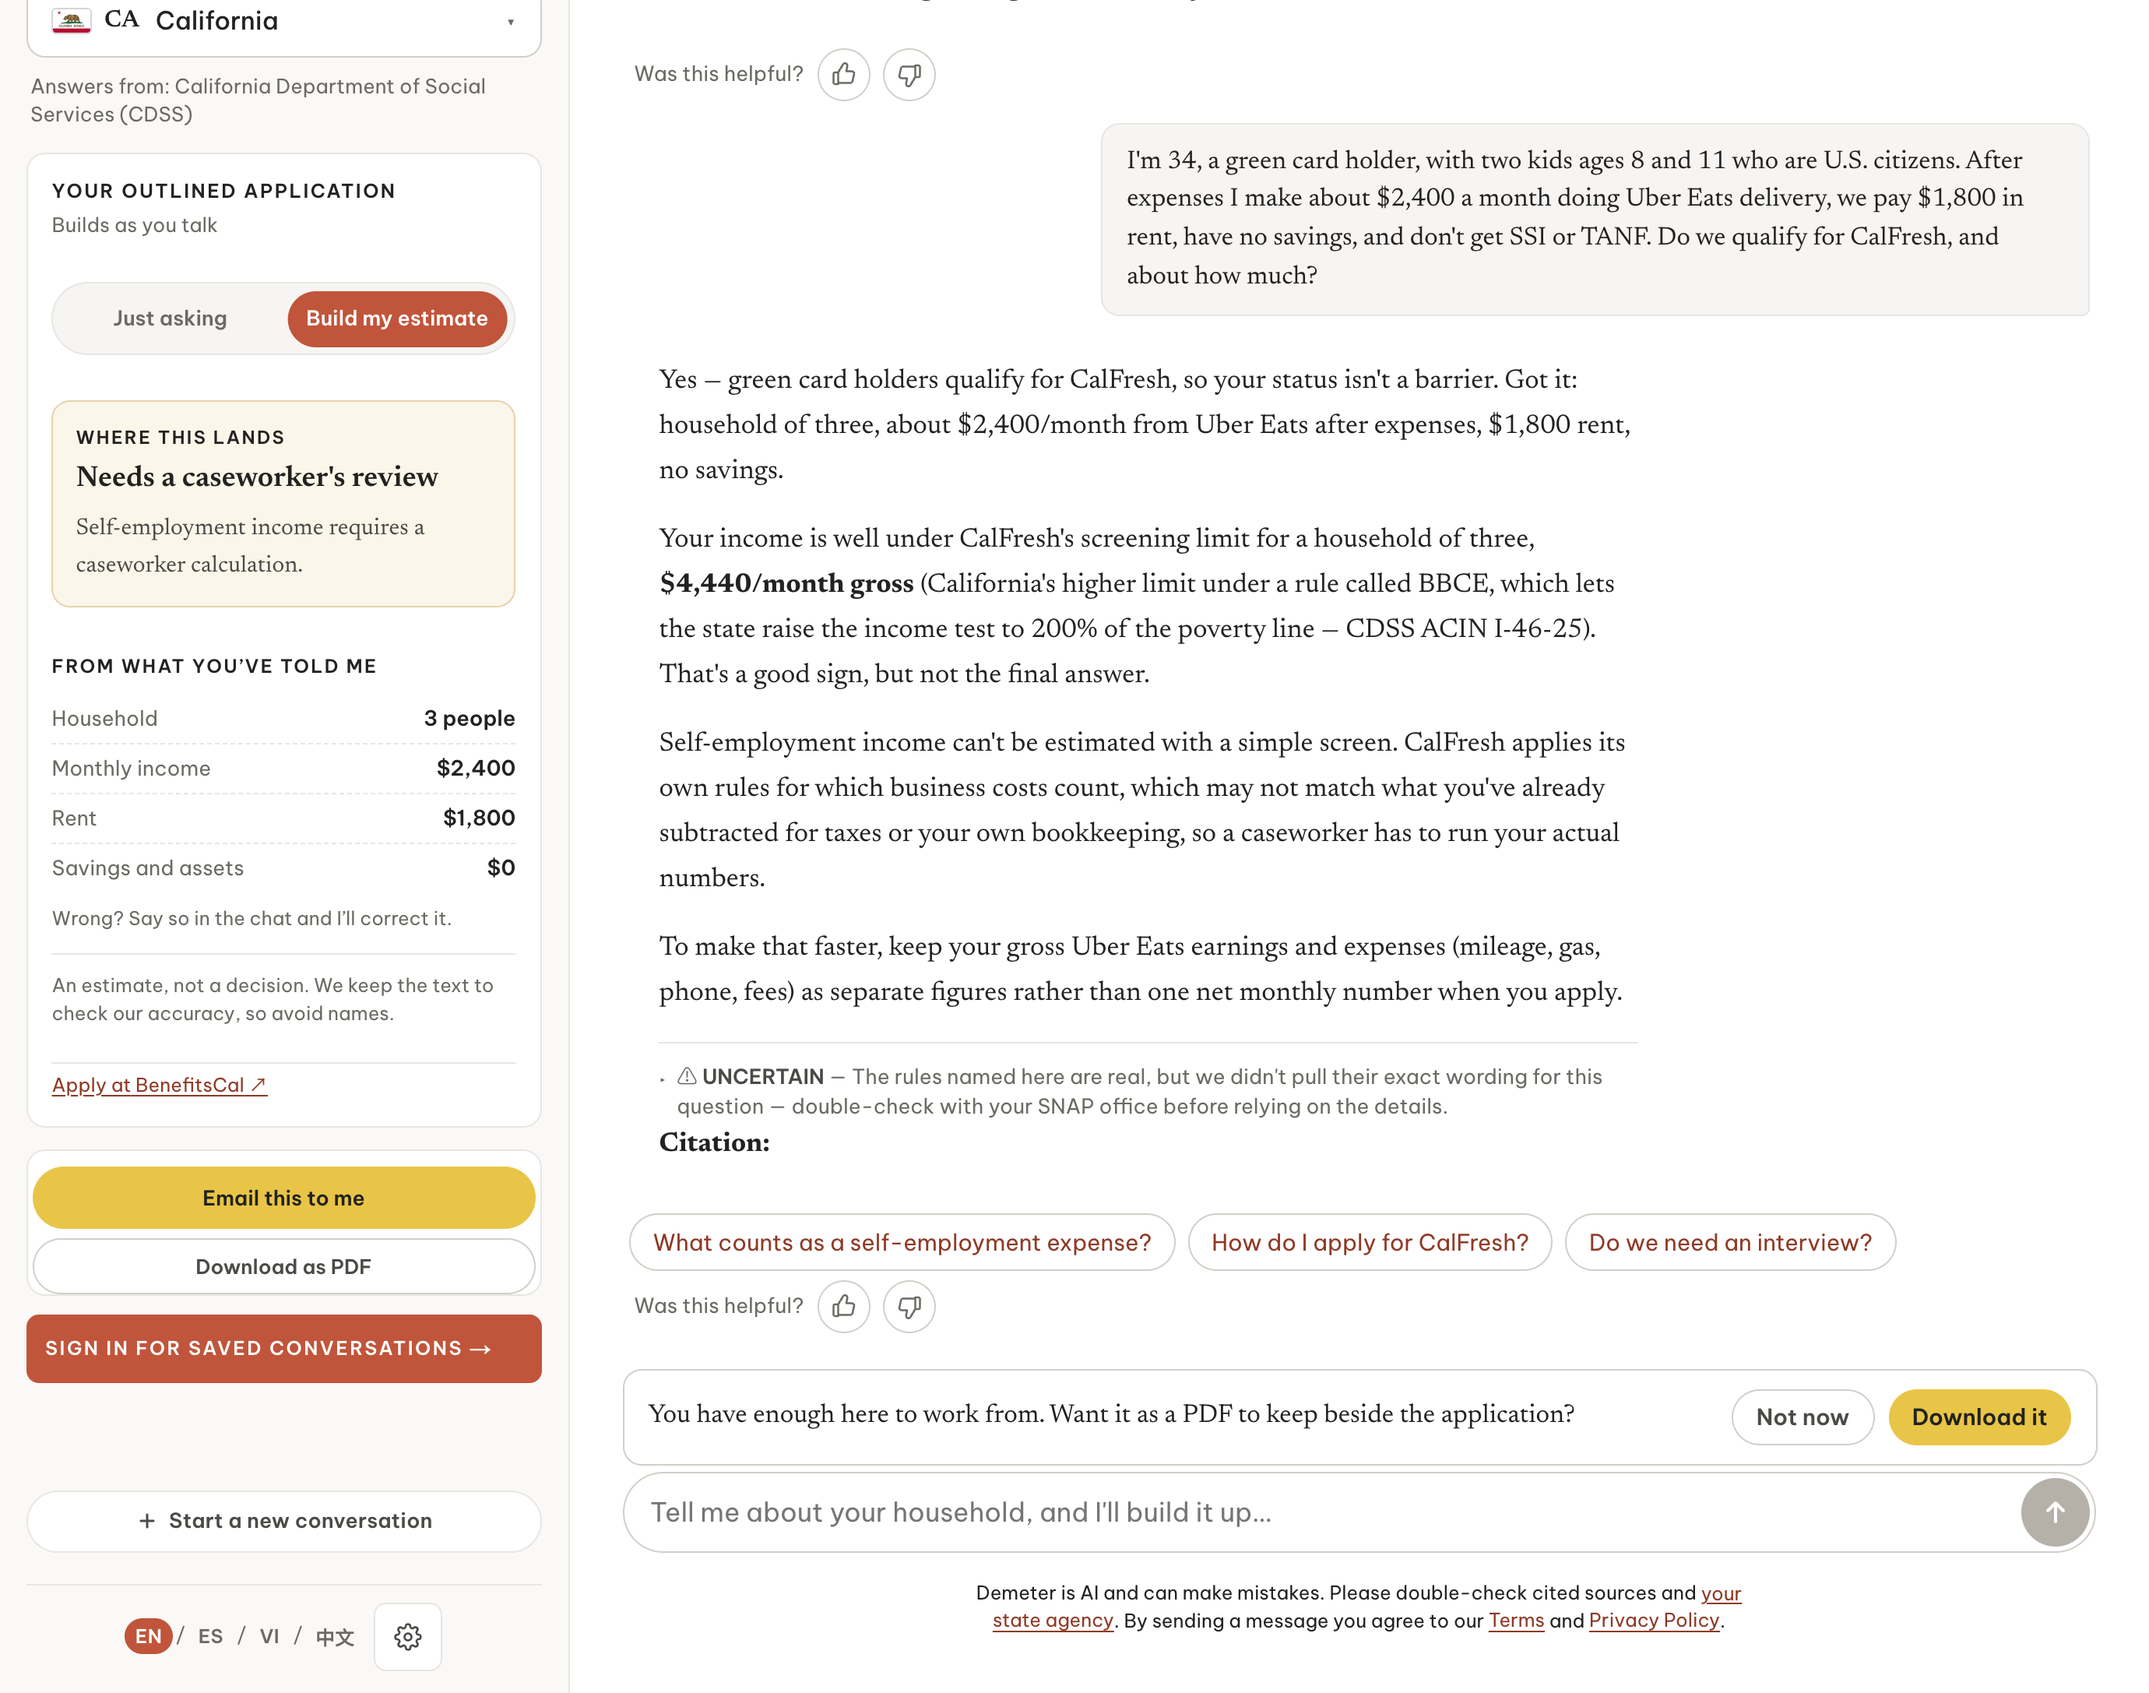
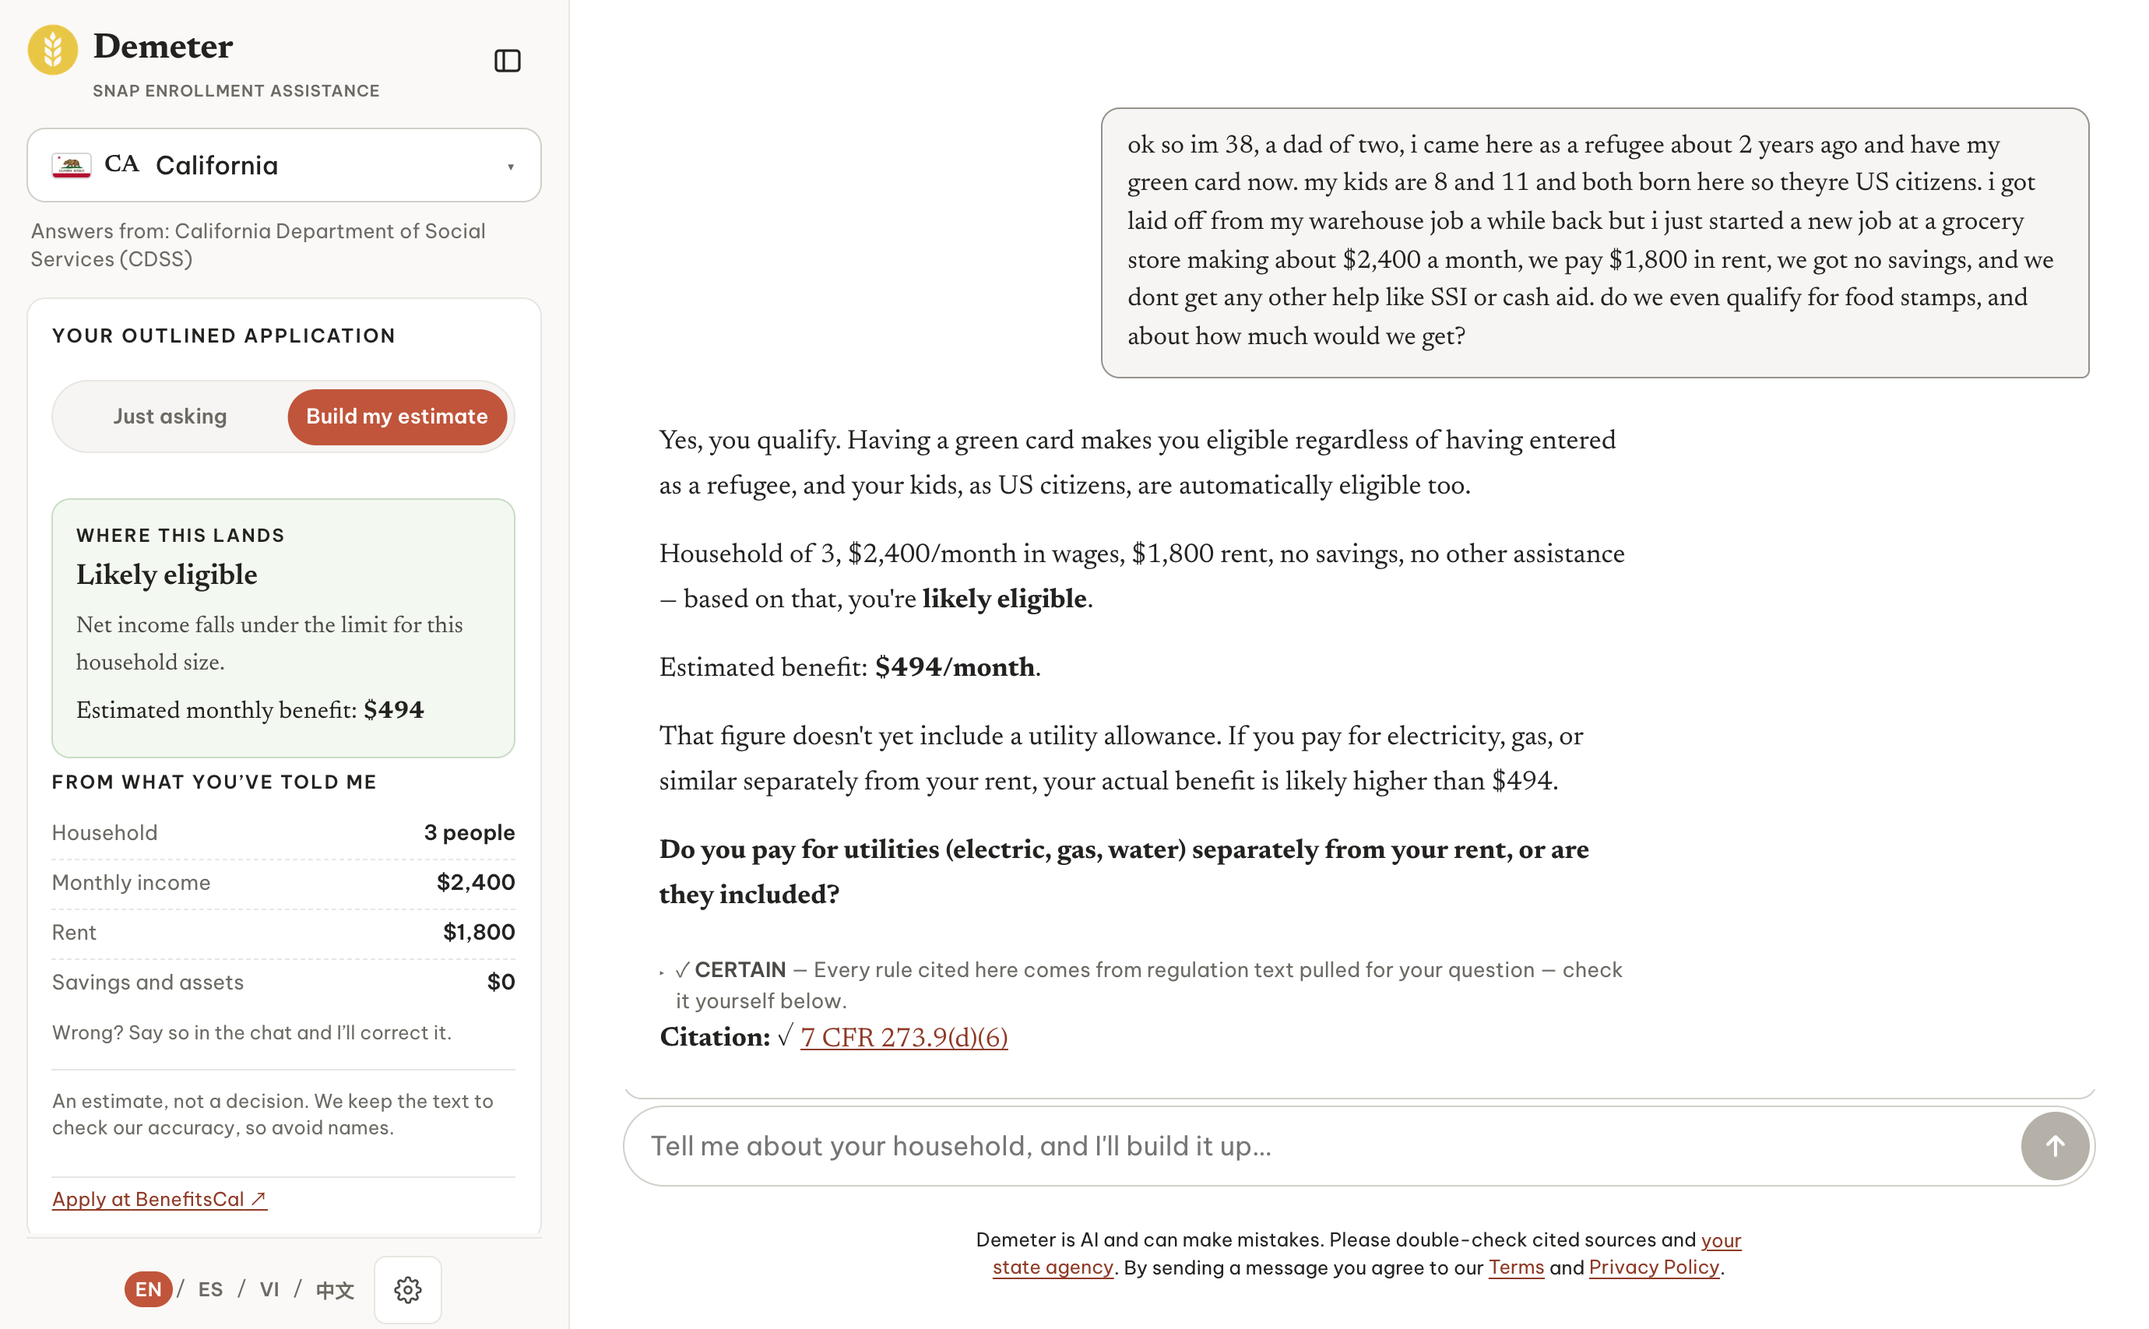
feat(cra-artifact): page-3 = honest wage capture, numbered legend of intent
Rebuild the CA page-3 evidence figure around the live "Likely eligible + $494"
wage scenario and redesign how it is annotated.

Screenshot (assembled from real elements of the same live conversation, at one
pixel scale): the outline lands on WHERE THIS LANDS = "Likely eligible" with an
Estimated monthly benefit of $494 and the captured facts; the chat shows the
messy refugee/new-job question answered plainly with a CERTAIN badge + machine-
checked citation (7 CFR 273.9(d)(6)); the chat input bar and the AI-disclosure
are kept; the four languages sit at the bottom. Redundant "Based on household"
and "Builds as you talk" lines are trimmed to save height.

Annotation: replaced the overlapping leader-line callout cards with small
numbered markers on the screenshot (yellow, crisp ring - a blurred drop-shadow
was rasterizing as a gray box in the PDF) plus a two-column legend beneath that
explains the INTENT of each feature rather than captioning what is on screen.

Layout: the built-in-limits / checked rails + try-it QR move above the demo, so
the screenshot sits in the middle with the intent legend below; the demo bleeds
slightly past the text column so it reads larger. FL keeps its plain screenshot
(no markers/legend) - the annotated treatment is CA-only.

diff --git a/tools/cra-artifact/templates/artifact.html b/tools/cra-artifact/templates/artifact.html
@@ -174,19 +174,26 @@
   .disclose { border:1px solid var(--rule-strong); border-radius:2px; background:var(--tint); padding:6px 11px; font-size:8.1pt; line-height:1.38; color:var(--body); margin-top:5px; text-wrap:pretty; }
   .disclose strong { color:var(--ink); }
   /* Page 3 — the platform, as built (annotated real screenshot) */
-  .platform-hero { margin-top:8px; }
-  .chatshot { position:relative; }
-  .chatshot > img { width:100%; height:100%; display:block; border:1px solid var(--rule); border-radius:6px; object-fit:cover; }
-  .chatshot .leaders { position:absolute; inset:0; width:100%; height:100%; pointer-events:none; overflow:visible; }
-  .chatshot .leaders .ld { fill:none; stroke:var(--accent-deep); stroke-width:1.5; stroke-linecap:round; vector-effect:non-scaling-stroke; opacity:.9; }
-  /* Round target dots as HTML (fixed px), so the stretched SVG can't oval them. */
-  .chatshot .cdot { position:absolute; width:8px; height:8px; border-radius:50%; background:var(--accent); border:1.5px solid #fff; box-shadow:0 0 0 .5px var(--accent-deep); transform:translate(-50%,-50%); }
-  .chatshot .co { position:absolute; font-size:7.2pt; line-height:1.28; color:var(--body);
-    background:rgba(252,250,246,.94); border:0.5px solid var(--accent); border-left:2.5px solid var(--accent-deep);
-    border-radius:3px; padding:3px 6px 3.5px; box-shadow:0 1px 3px rgba(35,34,32,.10); }
-  .chatshot .co b { display:block; font-family:'Newsreader',serif; font-weight:600; font-size:8.4pt; color:var(--accent-deep); margin-bottom:1.5px; }
+  .platform-hero { margin-top:6px; }
+  /* The demo bleeds past the text column toward the page edges (the .page has a
+     .7in side margin) so it reads bigger; only the image bleeds — caption and
+     legend stay in the column. */
+  .chatshot { position:relative; margin:0 -0.32in; }
+  .chatshot > img { width:100%; height:100%; display:block; border-radius:4px; object-fit:cover; }
+  /* Numbered markers sit ON the screenshot; the legend below explains the intent.
+     A crisp ring (border only — no blurred shadow, which a PDF rasterizes as a
+     gray square) keeps the badge circular on any background. */
+  .chatshot .cmark { position:absolute; width:19px; height:19px; margin:-9.5px 0 0 -9.5px;
+    border-radius:50%; background:var(--wheat); color:#3a2a08;
+    font:700 10.5px/19px 'Be Vietnam Pro',sans-serif; text-align:center;
+    border:1.5px solid var(--accent-deep); }
   .chatshot-cap { font-size:7pt; color:var(--muted); margin-top:5px; text-align:center; }
-  .evidence-foot { display:flex; gap:.3in; margin-top:8px; border-top:2px solid var(--accent); padding-top:9px; align-items:flex-start; }
+  .chat-legend { display:grid; grid-template-columns:1fr 1fr; gap:2px 20px; margin-top:6px; }
+  .leg { display:flex; gap:6px; font-size:7pt; line-height:1.24; color:var(--body); break-inside:avoid; }
+  .leg-n { flex:0 0 auto; width:12px; height:12px; margin-top:1px; border-radius:50%;
+    background:var(--wheat); color:#3a2a08; font:700 7.5px/12px 'Be Vietnam Pro',sans-serif; text-align:center; }
+  .leg-t b { color:var(--accent-deep); }
+  .evidence-foot { display:flex; gap:.3in; margin-top:6px; border-top:2px solid var(--accent); padding-top:7px; align-items:flex-start; }
   .ev-text { flex:1.55; min-width:0; }
   .ev-text p { font-size:8.4pt; line-height:1.46; color:var(--body); text-wrap:pretty; margin-bottom:6px; }
   .ev-text p:last-child { margin-bottom:0; }
@@ -274,17 +281,9 @@
 <!-- PAGE 3 — the platform, as built (product evidence) -->
 <div class="page">
   <div class="letterhead"><div class="org">[[org_name]] · [[program_name]]</div><div class="doc">Prepared for [[bank_name]] · [[prepared_date]]</div></div>
-  <div class="eyebrow" style="margin-top:20px;">Evidence · the working system behind the pilot</div>
-  <h2 class="pagehead" style="margin-top:6px;">The platform, as built</h2>
-  <div class="thesis" style="margin-top:8px;">The program on the previous page is running today. This is the system that delivers it &mdash; a rules-grounded assistant, not a general chatbot.</div>
-  <div class="platform-hero">
-    <div class="chatshot" style="aspect-ratio:[[chat_aspect]];">
-      <img src="[[chat_shot_src]]" alt="A real Demeter conversation in the live interface: a mixed-status SNAP question answered with the governing federal rule cited, showing the state selector and the live application outline building as the applicant talks."/>
-      [[chat_overlay]]
-    </div>
-    <div class="chatshot-cap">A real conversation in the live assistant &mdash; the interface an applicant actually uses, unretouched.</div>
-  </div>
-  <div class="evidence-foot">
+  <h2 class="pagehead" style="margin-top:22px;">The platform, as built</h2>
+  <div class="thesis" style="margin-top:8px;">The working system behind the pilot &mdash; a rules-grounded assistant, not a general chatbot.</div>
+  <div class="evidence-foot" style="border-top:none; margin-top:9px; padding-top:0;">
     <div class="ev-text">
       <p><strong>Built-in limits.</strong> Makes no eligibility determination &mdash; routes decisions to the county or 2-1-1. Redacts personal data before it leaves the system; never asks for an SSN, DOB, or account number; carries crisis and DV lines. Resident data is never shared with the bank, no products are marketed, and question text auto-purges (7/30 days).</p>
       <p><strong>Checked, and checkable.</strong> A graded ~600-question set across all 53 jurisdictions (adversarial + crisis included), re-run on every rules change &mdash; and offered to your compliance team to run themselves. Corpus: eCFR + 53 packs, dated provenance[[me_audit_clause]]; 120-day refresh.</p>
@@ -294,6 +293,14 @@
       <div class="affil">Civica was accepted into the Harvard Innovation Labs incubator, where the initial study was conducted.</div>
     </div>
   </div>
+  <div class="platform-hero">
+    <div class="chatshot" style="aspect-ratio:[[chat_aspect]];">
+      <img src="[[chat_shot_src]]" alt="A real Demeter conversation in the live interface: a mixed-status SNAP question answered with the governing federal rule cited, showing the state selector and the live application outline building as the applicant talks."/>
+      [[chat_overlay]]
+    </div>
+    <div class="chatshot-cap">A real conversation in the live assistant &mdash; simple on the surface, deliberate underneath. Each number is explained below.</div>
+  </div>
+  [[chat_legend]]
   <div class="pagenum">3 / 4</div>
 </div>
 

diff --git a/tools/cra-artifact/src/generate.py b/tools/cra-artifact/src/generate.py
@@ -208,41 +208,45 @@ def build_values(bank, assumptions, org, metrics, meta):
     # product's daily question cap was reached); both render correctly because
     # the aspect ratio and the overlay are state-specific.
     if state == "CA":
-        chat_aspect = "2760/2174"
-        # Callouts over the cropped CA screenshot (2760x2174). Coordinates are
-        # percentages of the image box. Lines are drawn in a
-        # preserveAspectRatio="none" SVG (so endpoints map straight to the %
-        # grid), but the target dots and the label cards are HTML — a circle in
-        # that stretched SVG would render as an oval, so the round dots are
-        # fixed-pixel HTML instead.
-        # (tx,ty) target on image · (lx,lt,lw) label card · (ax,ay) line meets card
-        _cos = [
-            ((23.5, 1.5), (27, 1, 20), (27, 3.5),
-             "State-aware", "Localized to California — answers from CDSS."),
-            ((14, 44), (27, 9, 21), (27, 12.5),
-             "A live application outline", "Household, income and rent fill in as they talk."),
-            ((70, 9), (60, 0.5, 23), (70, 6.5),
-             "A messy, real question", "The kind a form can’t take — mixed-status, gig income, no W-2."),
-            ((73, 37), (77, 29.5, 22), (77, 34),
-             "Answered, with the rule cited", "Plain language, confidence stated, governing rule linked (CDSS ACIN I-46-25)."),
-            ((14, 96.5), (21, 91.5, 21), (21, 94),
-             "Four languages", "English, Spanish, Vietnamese, Chinese."),
+        chat_aspect = "2760/1707"
+        # Numbered markers sit ON the screenshot; the legend beneath it explains
+        # the INTENT behind each simple feature (not a caption of what's shown).
+        # (x,y) is the marker centre in % of the image box; the order matches the
+        # legend. Small numbers avoid the leader-line/label overlap of earlier
+        # versions.
+        _marks = [
+            (23, 12.5),  # 1  state selector (dropdown caret)
+            (24.5, 40),  # 2  WHERE THIS LANDS — likely eligible + $494 (box corner)
+            (24.5, 59),  # 3  FROM WHAT YOU'VE TOLD ME — the captured facts (header row)
+            (96.5, 8.5), # 4  the messy question bubble (top-right corner)
+            (52, 45),    # 5  right of the plain-language answer
+            (30, 73),    # 6  the CERTAIN confidence badge
+            (50, 78),    # 7  the citation link
+            (62, 86),    # 8  after the chat-bar prompt text
+            (22, 97),    # 9  right of the four languages
         ]
-        _leaders = "".join(
-            f'<polyline points="{ax},{ay} {tx},{ty}" class="ld"/>'
-            for (tx, ty), _lab, (ax, ay), _t, _b in _cos)
-        _dots = "".join(
-            f'<div class="cdot" style="left:{tx}%;top:{ty}%"></div>'
-            for (tx, ty), _lab, _an, _t, _b in _cos)
-        _labels = "".join(
-            f'<div class="co" style="left:{lx}%;top:{lt}%;width:{lw}%"><b>{t}</b>{bdy}</div>'
-            for _tg, (lx, lt, lw), _an, t, bdy in _cos)
-        chat_overlay = (f'<svg class="leaders" viewBox="0 0 100 100" '
-                        f'preserveAspectRatio="none" aria-hidden="true">{_leaders}</svg>'
-                        f'{_dots}{_labels}')
+        chat_overlay = "".join(
+            f'<div class="cmark" style="left:{x}%;top:{y}%">{i + 1}</div>'
+            for i, (x, y) in enumerate(_marks))
+        _legend = [
+            ("State-aware", "SNAP is 53 separate state and territory programs; it localizes to the applicant’s jurisdiction, so the answer is right where they live."),
+            ("A ballpark, up front", "A plausible number is what moves a hesitant applicant from “maybe later” to actually starting the application."),
+            ("From what you’ve told me", "The outline captures each detail as they talk and shows it back — nothing is re-asked, and they can correct it."),
+            ("A messy, real question", "Everyone has an edge case. Plain words hold what a fixed form can’t, so no one opts out for being “too complicated.”"),
+            ("Plain-language reasoning", "Explaining the <em>why</em> — not just yes/no — lets someone act, and frees caseworkers for the genuinely hard cases."),
+            ("Certain", "The confidence flag isn’t just for the reader: it’s logged internally, training the system toward correct answers over time."),
+            ("Cited", "Every rule links to machine-checked source text — verifiable now, and building the citation corpus behind the answers."),
+            ("Prompts the next step", "It asks for the one detail that most sharpens the estimate — gathering what matters without a full form."),
+            ("Four languages", "Spanish, Vietnamese and Chinese are among the largest limited-English, low-income language groups in the U.S. — the widest barriers to access."),
+        ]
+        chat_legend = ('<div class="chat-legend">' + "".join(
+            f'<div class="leg"><span class="leg-n">{i + 1}</span>'
+            f'<span class="leg-t"><b>{t}.</b> {d}</span></div>'
+            for i, (t, d) in enumerate(_legend)) + "</div>")
     else:
         chat_aspect = "2760/2360"
         chat_overlay = ""
+        chat_legend = ""
     # Regulator-specific CRA rule citation for the community-reinvestment box.
     cra_part = cra_reg_part(bank["regulator"])
     cra_rule_cite = f"12 CFR Part {cra_part} ({bank['regulator']})"
@@ -303,6 +307,7 @@ def build_values(bank, assumptions, org, metrics, meta):
         "chat_shot_src": chat_shot_src,
         "chat_aspect": chat_aspect,
         "chat_overlay": chat_overlay,
+        "chat_legend": chat_legend,
         # Page-3 (platform evidence) state-awareness: the demo and the ME-audit
         # provenance are state-specific, so the CalFresh/California framing must
         # not render for the FL banks. The mixed-status citations (7 CFR) are
